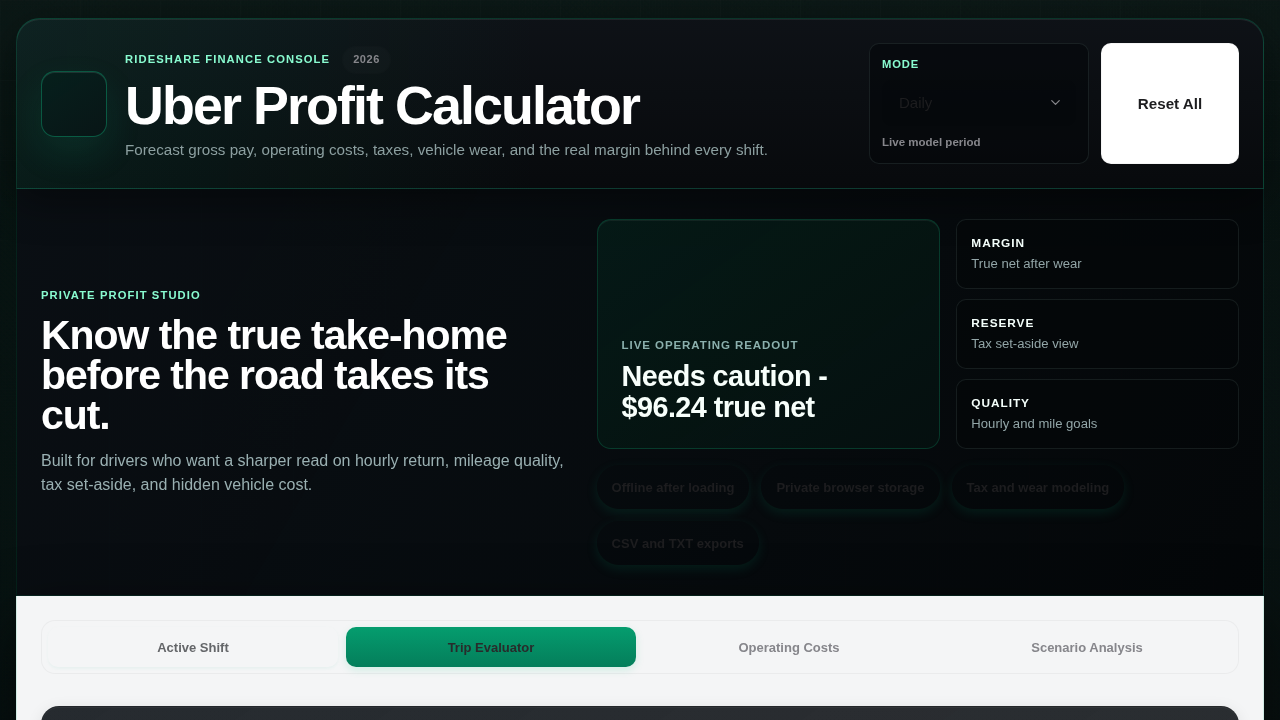
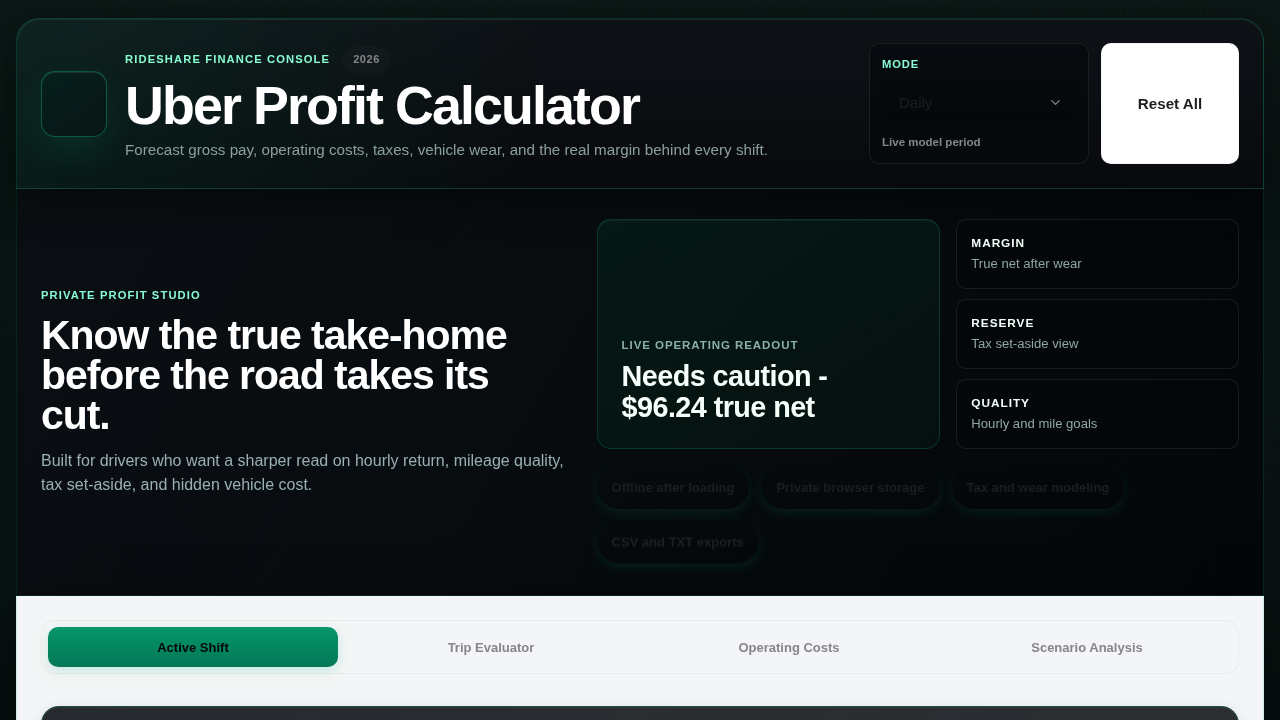
Fix transparent focus indicators for keyboard accessibility

Changed region(s): [[0.0312, 0.8556, 0.5, 0.9472]]

diff --git a/components.css b/components.css
@@ -270,7 +270,7 @@ button:focus-visible {
 button:focus-visible,
 .tip-dot:focus-visible,
 .advisor-chip:focus-visible {
-  outline: 2px solid transparent;
+  outline: 2px solid var(--primary);
   outline-offset: 2px;
 }
 
@@ -957,4 +957,9 @@ button.blue:disabled,
   box-shadow: none !important;
   transform: none !important;
   filter: grayscale(0.5);
+}
+
+.tab-button:focus-visible {
+  outline: 2px solid var(--primary);
+  outline-offset: -2px;
 }

diff --git a/screenshot.py b/screenshot.py
@@ -1,15 +1,15 @@
 from playwright.sync_api import sync_playwright
 
 with sync_playwright() as p:
-    browser = p.chromium.launch(headless=True)
+    browser = p.chromium.launch()
     page = browser.new_page()
-    page.goto('http://localhost:8080')
+    page.goto('http://localhost:8000')
     page.wait_for_timeout(1000)
-    page.screenshot(path='screenshot.png')
-
-    # Try tab interaction
-    page.click('button[data-tab="trip-evaluator"]')
-    page.wait_for_timeout(500)
-    page.screenshot(path='screenshot-tab.png')
-
+    page.keyboard.press("Tab")
+    page.keyboard.press("Tab")
+    page.keyboard.press("Tab")
+    page.keyboard.press("Tab")
+    page.keyboard.press("Tab")
+    page.keyboard.press("Tab")
+    page.screenshot(path="screenshot-tab.png")
     browser.close()

diff --git a/.Jules/palette.md b/.Jules/palette.md
@@ -22,3 +22,7 @@
 ## 2024-06-01 - Add confirmation dialog to destructive actions
 **Learning:** Destructive actions like 'Reset All' can lead to accidental data loss and frustration if they do not require user confirmation.
 **Action:** Always wrap destructive form reset or clear functions with a confirmation dialog.
+
+## 2026-06-02 - Visible Keyboard Focus Indicators
+**Learning:** Setting `outline: 2px solid transparent;` for `focus-visible` states effectively hides the focus ring from keyboard users, creating a significant accessibility barrier. Keyboard navigation relies on clear, visible focus indicators to show which element is currently active.
+**Action:** Replaced transparent outlines with a visible color (`var(--primary)`) for all interactive elements like buttons, tip dots, and advisor chips, and ensured custom UI elements like tab buttons also have explicit, visible `focus-visible` styles.
